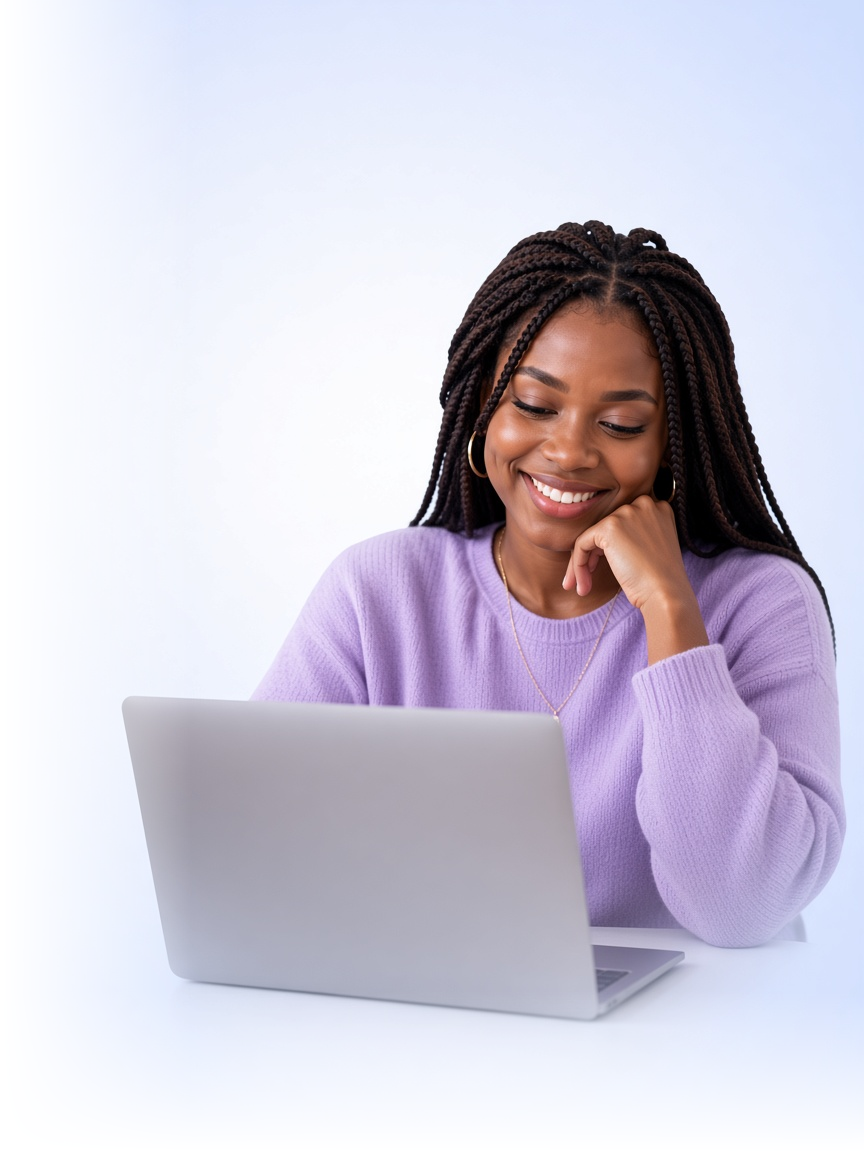
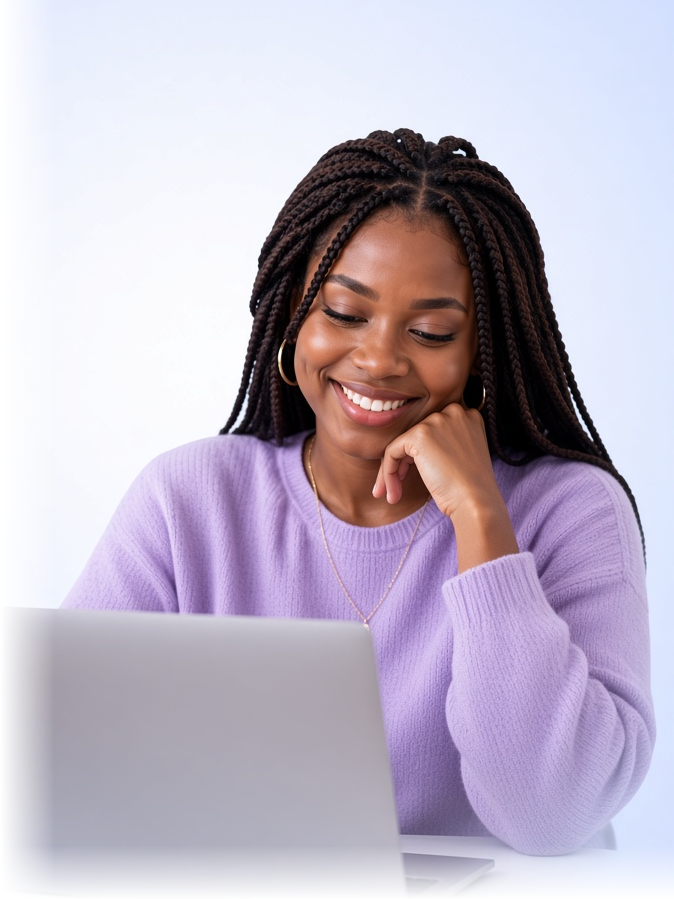
fix: make the Business Email portrait larger and match Beyond AI
Crop the woman closer, scale her up in the open scene, and keep the glass inbox off her face so the block reads like the section above.

diff --git a/components/home/business-email-section.tsx b/components/home/business-email-section.tsx
@@ -54,29 +54,29 @@ const cities = [
   {
     city: "New York",
     status: "Connected",
-    top: "7%",
-    left: "48%",
+    top: "3%",
+    left: "36%",
     photo: "/images/business-email/ny.png",
   },
   {
     city: "London",
     status: "Connected",
-    top: "2%",
-    left: "71%",
+    top: "0%",
+    left: "62%",
     photo: "/images/business-email/london.png",
   },
   {
     city: "Tokyo",
     status: "Connected",
-    top: "16%",
-    left: "86%",
+    top: "10%",
+    left: "82%",
     photo: "/images/business-email/tokyo.png",
   },
   {
     city: "Sydney",
     status: "Connected",
-    top: "30%",
-    left: "84%",
+    top: "22%",
+    left: "80%",
     photo: "/images/business-email/sydney.png",
   },
 ];
@@ -158,44 +158,41 @@ function MailInbox({ content }: { content: CmsBusinessEmailContent }) {
 
 function MailStage({ content }: { content: CmsBusinessEmailContent }) {
   return (
-    <div className="relative mx-auto h-[500px] w-full max-w-[640px] sm:h-[560px] lg:h-[600px] lg:max-w-none xl:h-[640px]">
+    <div className="relative mx-auto min-h-[520px] w-full max-w-[640px] sm:min-h-[560px] lg:ml-auto lg:min-h-[600px] lg:max-w-none">
       <div
         aria-hidden
-        className="pointer-events-none absolute inset-0 overflow-hidden"
-      >
-        <div className="absolute top-[2%] right-[-4%] h-[58%] w-[78%] rounded-full bg-[radial-gradient(ellipse,rgba(147,197,253,0.28),transparent_70%)] blur-3xl" />
-        <div className="absolute right-0 bottom-[-8%] h-[40%] w-[46%] rounded-full bg-[radial-gradient(ellipse,rgba(167,139,250,0.12),transparent_70%)] blur-3xl" />
-      </div>
+        className="pointer-events-none absolute -inset-6 rounded-[40px] bg-[radial-gradient(ellipse_at_center,rgba(37,99,235,0.16),transparent_62%)] blur-2xl"
+      />
 
-      <div className="pointer-events-none absolute top-0 right-[-6%] h-[58%] w-[96%] sm:w-[90%]">
+      <div className="pointer-events-none absolute top-0 right-[-4%] h-[48%] w-[92%] sm:w-[88%]">
         <Image
           src="/images/business-email/map.png"
           alt=""
           fill
           unoptimized
           sizes="(max-width: 1024px) 90vw, 55vw"
-          className="object-contain object-[right_top] opacity-80"
+          className="object-contain object-[right_top] opacity-70"
         />
       </div>
 
       {content.imageUrl ? (
-        <div className="absolute right-[-8%] bottom-0 z-10 h-full w-[82%] sm:right-[-4%] sm:w-[70%] lg:w-[66%]">
+        <div className="absolute top-[2%] right-[-10%] z-10 h-[108%] w-[92%] sm:right-[-6%] sm:w-[82%] lg:w-[78%]">
           <Image
             src={content.imageUrl}
             alt={content.imageAlt}
             fill
             priority
-            sizes="(max-width: 1024px) 80vw, 42vw"
+            sizes="(max-width: 1024px) 90vw, 50vw"
             unoptimized={
               isRuntimeMediaSrc(content.imageUrl) ||
               content.imageUrl.endsWith(".png")
             }
-            className="[mask-image:linear-gradient(to_right,transparent_0%,#000_12%,#000_100%)] object-contain object-bottom [-webkit-mask-image:linear-gradient(to_right,transparent_0%,#000_12%,#000_100%)]"
+            className="[mask-image:linear-gradient(to_right,transparent_0%,#000_8%,#000_100%)] object-cover object-[center_8%] [-webkit-mask-image:linear-gradient(to_right,transparent_0%,#000_8%,#000_100%)]"
           />
         </div>
       ) : null}
 
-      <div className="absolute top-4 left-[4%] z-30 hidden items-center gap-2 rounded-2xl border border-white/80 bg-white/80 px-3 py-2 shadow-[0_14px_36px_rgba(37,80,130,0.12)] backdrop-blur-xl sm:flex">
+      <div className="absolute -top-3 right-2 z-30 hidden items-center gap-2 rounded-full border border-white/80 bg-white/80 px-3 py-1.5 shadow-[0_10px_28px_rgba(15,23,42,0.12)] backdrop-blur-xl sm:flex md:right-8">
         <span className="inline-flex size-7 items-center justify-center rounded-lg bg-[#eef2ff] text-[#4f46e5]">
           <Mail className="size-3.5" />
         </span>
@@ -228,11 +225,11 @@ function MailStage({ content }: { content: CmsBusinessEmailContent }) {
         </div>
       ))}
 
-      <div className="absolute top-[20%] left-0 z-20 w-[84%] max-w-[360px] sm:left-[2%] sm:w-[58%] sm:max-w-[380px]">
+      <div className="absolute top-[34%] left-0 z-20 w-[78%] max-w-[340px] sm:top-[32%] sm:w-[54%]">
         <MailInbox content={content} />
       </div>
 
-      <div className="absolute top-[28%] right-0 z-30 hidden w-[168px] space-y-2 lg:block">
+      <div className="absolute top-[38%] -right-1 z-30 hidden w-[168px] space-y-2 xl:block">
         {content.stats.map((stat) => {
           const Icon = statIcons[stat.icon] ?? BarChart3;
           return (
@@ -337,7 +334,9 @@ export function BusinessEmailSection({
             ) : null}
           </div>
 
-          <MailStage content={data} />
+          <div className="relative pb-16 sm:pb-10 lg:pb-8">
+            <MailStage content={data} />
+          </div>
         </div>
 
         <div className="mt-10 grid gap-3 rounded-[28px] border border-white/80 bg-white/60 p-3 shadow-[0_18px_50px_-28px_rgba(37,80,130,0.32)] backdrop-blur-2xl sm:mt-14 sm:grid-cols-2 lg:grid-cols-4 lg:p-4">
